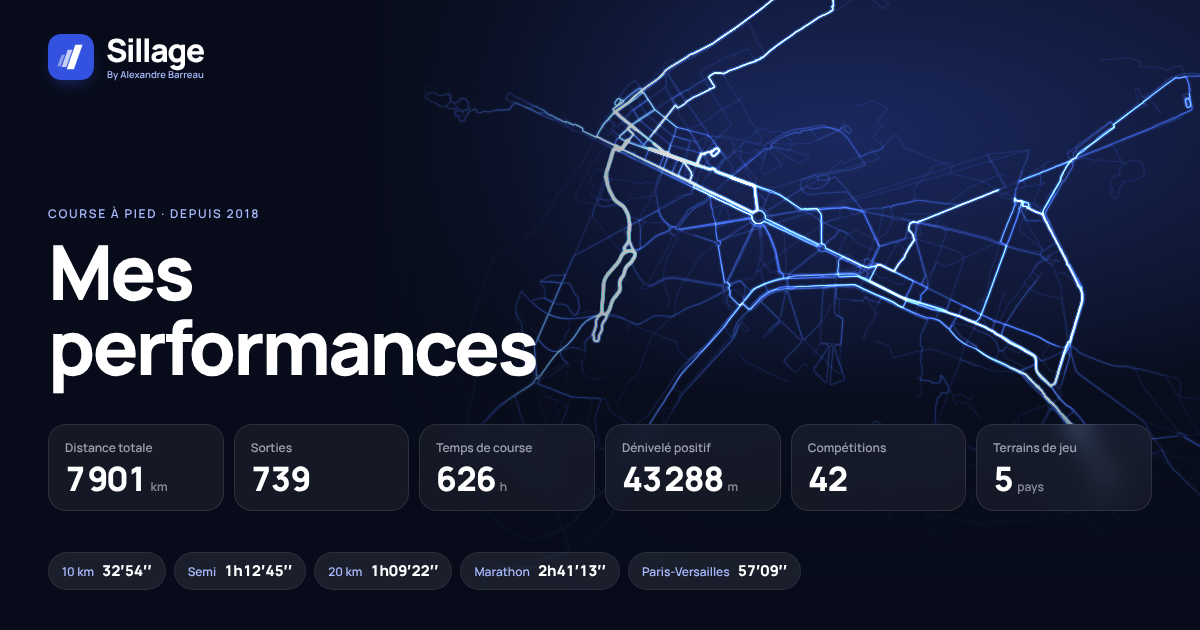
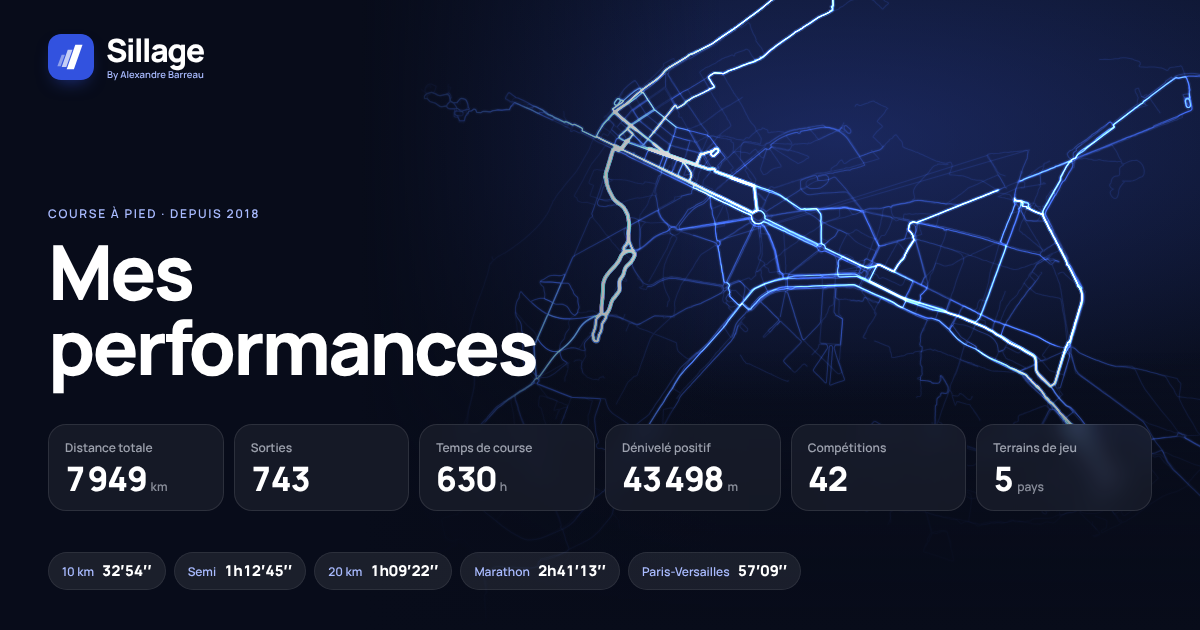
Synchro Strava du 2026-10-28
- 4 nouvelle(s) activité(s) : 2026-10-26 Evening Run, 2026-10-27 Lunch Run, 2026-10-27 Evening Run, 2026-10-28 Lunch Run
- 2 activité(s) mise(s) à jour
- 4 sortie(s) avec cardio ajoutée(s)
- tours et records de 4 sortie(s) (305/743 complètes)
- segments de 4 sortie(s) (305/743 complètes)
- 4 tracé(s) GPS (732 au total)

Analyse : Vérification horaire : 4 nouvelles sorties d'entraînement à Paris (footings et VMA 11x400 m), aucune compétition. Marseille-Cassis reconduit tel quel (ni chrono officiel ni classement dans la description).

diff --git a/sync/journal.md b/sync/journal.md
@@ -2,6 +2,7 @@
 
 Une ligne par synchro, la plus récente en haut.
 
+- 2026-10-28 16:19 · 4 nouvelle(s) activité(s) : 2026-10-26 Evening Run, 2026-10-27 Lunch Run, 2026-10-27 Evening Run, 2026-10-28 Lunch Run ; 2 activité(s) mise(s) à jour ; 4 sortie(s) avec cardio ajoutée(s) ; tours et records de 4 sortie(s) (305/743 complètes) ; segments de 4 sortie(s) (305/743 complètes) ; 4 tracé(s) GPS (732 au total) · Vérification horaire : 4 nouvelles sorties d'entraînement à Paris (footings et VMA 11x400 m), aucune compétition. Marseille-Cassis reconduit tel quel (ni chrono officiel ni classement dans la description).
 - 2026-10-27 01:10 · 1 activité(s) mise(s) à jour ; tours et records de 20 sortie(s) (301/739 complètes) ; segments de 20 sortie(s) (301/739 complètes) · Deux compétitions connues de la fenêtre reconduites (Semi de Rome, Marseille-Cassis, sans chrono officiel dans la description). Aucune nouvelle compétition ; échauffements et séances écartés.
 - 2026-10-26 17:15 · 1 nouvelle(s) activité(s) : 2026-10-26 Lunch Run ; 1 activité(s) mise(s) à jour ; 1 sortie(s) avec cardio ajoutée(s) ; tours et records de 1 sortie(s) (281/739 complètes) ; segments de 1 sortie(s) (281/739 complètes) ; 1 tracé(s) GPS (728 au total) · Vérification horaire : nouvelle sortie Lunch Run du 26/10 (10,6 km à 4'24"/km, lundi midi, titre générique) = entraînement. Marseille-Cassis reconduite sans chrono officiel ni classement.
 - 2026-10-26 01:08 · 3 activité(s) mise(s) à jour ; tours et records de 20 sortie(s) (280/738 complètes) ; segments de 20 sortie(s) (280/738 complètes) · Aucune nouvelle sortie ; compétitions connues inchangées (pas de chrono officiel ni classement pour 20 km de Paris et Marseille-Cassis dans les descriptions). Les autres sorties sont des footings ou séances (7x600m VMA).
